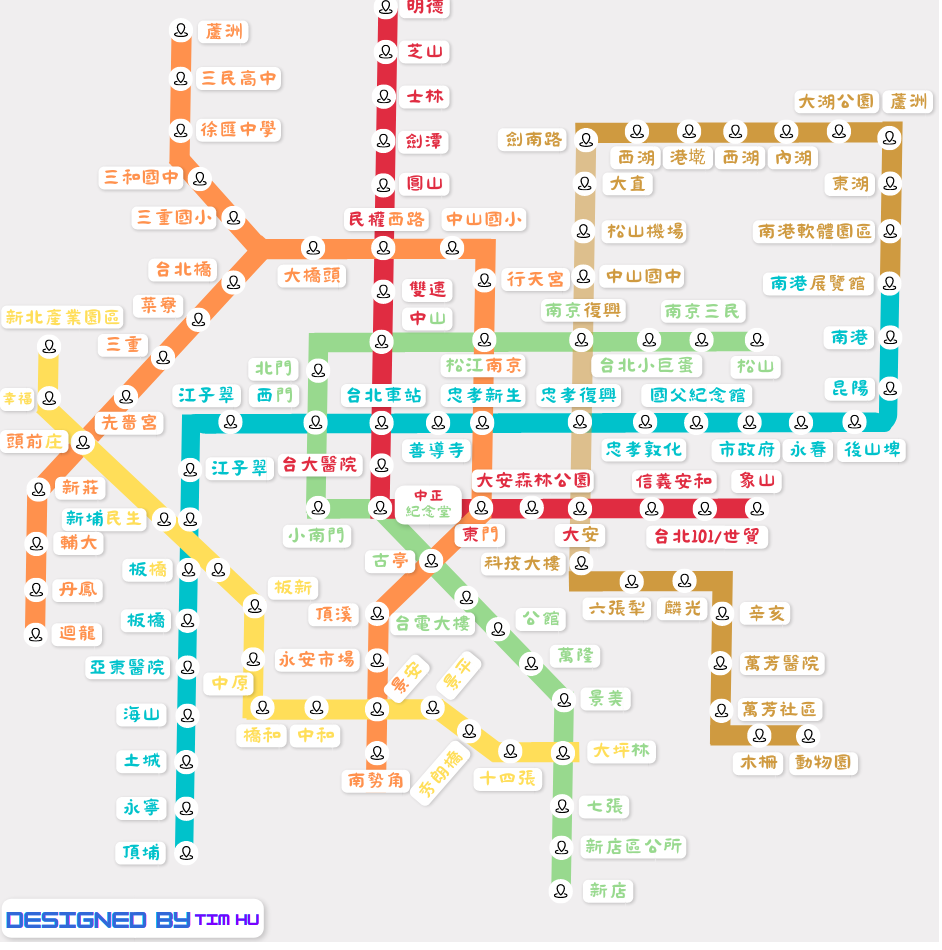
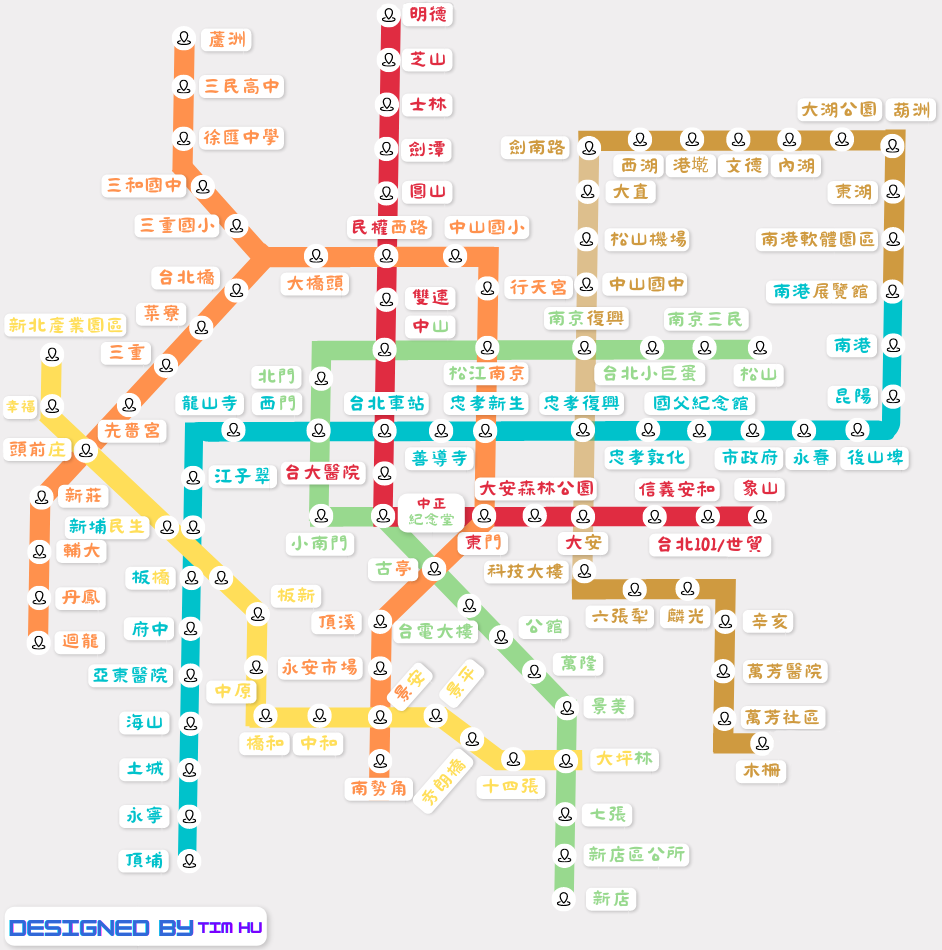
題目+卡片
1.題目出錯的修正
2.提示中圖片的顯示
3.重複站點icon的選擇
4.修正舊有座標
5.卡片換新

Changed region(s): [[0.0, 0.0, 1.0, 0.9768], [0.0, 0.9463, 0.3079, 1.0]]

diff --git a/main/templates/eachstation.html b/main/templates/eachstation.html
@@ -6,38 +6,38 @@
             <div class="mt-2 d-flex shadow" style="background-color: white;height:65%;border-radius:40px 40px 0 0">
                 <div class="col-4 d-flex mt-4 ms-4">
                     <img {% if station in
-                        ["南港展覽館","南港","昆陽","後山埤","永春","市政府","國父紀念館","忠孝敦化","善導寺","龍山寺","江子翠","新埔(民生)","板橋","府中","亞東醫院","海山","土城","永寧","頂埔"]
+                        ["南港","昆陽","後山埤","永春","市政府","國父紀念館","忠孝敦化","善導寺","龍山寺","江子翠","新埔(民生)","板橋","府中","亞東醫院","海山","土城","永寧","頂埔"]
                         %} src="/static/img/blue.png" alt="" style="height:100px;border-radius:20px" id="icon"
                         class='shadow'>
                     <div style="height:30px;width:30px;border-radius:25%;background-color:#e7e7e7;color:#006fba;text-align:center;padding-top:5px;margin-top:80px;margin-left:-15px;font-weight:900"
                         class="shadow">藍</div>
                     {% elif station in
-                    ["明德","芝山","士林","劍潭","圓山","民權西路","雙連","中山","臺北車站","台大醫院","中正紀念堂","東門","大安森林公園","大安","信義安和","台北101／世貿","象山"]%}
+                    ["明德","芝山","士林","劍潭","圓山","雙連","台北車站","台大醫院","東門","大安森林公園","信義安和","台北101/世貿","象山"]%}
                     src="/static/img/red.png"
                     alt="" style="height:100px;border-radius:20px" id="icon" class='shadow'>
                     <div style="height:30px;width:30px;border-radius:25%;background-color:#e7e7e7;color:rgb(209,45,50);text-align:center;padding-top:5px;margin-top:80px;margin-left:-15px;font-weight:900"
                         class="shadow">紅</div>
                     {% elif station in
-                    ["松山","南京三民","台北小巨蛋","南京復興","松江南京","中山","北門","西門","小南門","中正紀念堂","古亭","台電大樓","公館","萬隆","景美","大坪林","七張","新店區公所","新店","小碧潭"]
+                    ["松山","南京三民","台北小巨蛋","南京復興","中山","北門","西門","小南門","中正紀念堂","台電大樓","公館","萬隆","景美","大坪林","七張","新店區公所","新店","小碧潭"]
                     %}
                     src="/static/img/green.png"
                     alt="" style="height:100px;border-radius:20px" id="icon" class='shadow'>
                     <div style="height:30px;width:30px;border-radius:25%;background-color:#e7e7e7;color:rgb(59,133,92);text-align:center;padding-top:5px;margin-top:80px;margin-left:-15px;font-weight:900"
                         class="shadow">綠</div>
-                    {% elif station in ["大坪林","十四張","秀朗橋","景平","景安","中和","橋和","中原","板新","板橋","新埔民生","頭前庄","幸福","新北產業園區"]
+                    {% elif station in ["大坪林","十四張","秀朗橋","景平","景安","中和","橋和","中原","板新","板橋","新埔民生","幸福","新北產業園區"]
                     %}
                     src="/static/img/yellow.png"
                     alt="" style="height:100px;border-radius:20px" id="icon" class='shadow'>
                     <div style="height:30px;width:30px;border-radius:25%;background-color:#e7e7e7;color:rgb(249,221,74);text-align:center;padding-top:5px;margin-top:80px;margin-left:-15px;font-weight:900"
                         class="shadow">黃</div>
                     {% elif station in
-                    ["動物園","木柵","萬芳社區","萬芳醫院","辛亥","麟光","六張犁站","科技大樓","大安","忠孝復興","南京復興","中山國中","松山機場","大直","劍南路","西湖","港墘","文德","內湖","大湖公園","葫洲","東湖站","南港軟體園區","南港展覽館"]%}
+                    ["動物園","木柵","萬芳社區","萬芳醫院","辛亥","麟光","六張犁","科技大樓","大安","忠孝復興","南京復興","中山國中","松山機場","大直","劍南路","西湖","港墘","文德","內湖","大湖公園","葫洲","東湖","南港軟體園區","南港展覽館"]%}
                     src="/static/img/brown.png"
                     alt="" style="height:100px;border-radius:20px" id="icon" class='shadow'>
                     <div style="height:30px;width:30px;border-radius:25%;background-color:#e7e7e7;color:rgb(186,142,64);text-align:center;padding-top:5px;margin-top:80px;margin-left:-15px;font-weight:900"
                         class="shadow">棕</div>
                     {% elif station in
-                    ["蘆洲","三民高中","徐匯中學","三和國中","三重國小","迴龍","丹鳳","輔大","新莊","頭前庄","先嗇宮","三重","菜寮","台北橋","大橋頭","民權西路","中山國小","行天宮","松江南京","忠孝新生","東門","古亭","頂溪","永安市場","景安","南勢角"]
+                    ["蘆洲","三民高中","徐匯中學","三和國中","三重國小","迴龍","頭前庄","丹鳳","輔大","新莊","頭前庄","先嗇宮","三重","菜寮","台北橋","大橋頭","民權西路","中山國小","行天宮","松江南京","忠孝新生","東門","古亭","頂溪","永安市場","景安","南勢角"]
                     %}
                     src="/static/img/orange.png"
                     alt="" style="height:100px;border-radius:20px" id="icon" class='shadow'>
@@ -105,6 +105,13 @@
             <div class="col small-card p-3 shadow" style="color:#929292;background-color:white">
                 {% for task in settings[station] %}
                 {{task[2]}}
+                {% if ',' in task[4] %}
+                    {% for each in task[4].split(',') %}
+                        <img src="{{each}}" class="mw-100"  alt="">
+                    {%endfor%}
+                {%else%}
+                <img src="{{task[4]}}" class="mw-100" alt="">
+                {%endif%}
                 {%endfor%}
             </div>
         </div>

diff --git a/main/templates/each_game.html b/main/templates/each_game.html
@@ -74,8 +74,6 @@
                     shape="rect"><!---->
                 <area title="景美" href="/games/{{session['games']['name']}}?station=景美" coords="554,698,572,719"
                     shape="rect"><!---->
-                <area title="大坪林" href="/games/{{session['games']['name']}}?station=大坪林" coords="547,1071,640,1106"
-                    shape="rect">
                 <area title="七張" href="/games/{{session['games']['name']}}?station=七張" coords="555,802,572,824"
                     shape="rect"><!---->
                 <area title="新店區公所" href="/games/{{session['games']['name']}}?station=新店區公所" coords="554,843,573,866"

diff --git a/main/templates/cards.html b/main/templates/cards.html
@@ -54,7 +54,7 @@
         return Math.floor(Math.random() * max);
     }
     function get_card() {
-        location.href = '/games/{{session['games']['name']}}/cards?get=' + (getRandomInt(19) + 1);
+        location.href = '/games/{{session['games']['name']}}/cards?get=' + (getRandomInt(26) + 1);
     }
     function add_card(id){
         let card_box=document.querySelector('#card_box');

diff --git a/1.html b/1.html
@@ -1,0 +1,12 @@
+<!DOCTYPE html>
+<html lang="en">
+<head>
+    <meta charset="UTF-8">
+    <meta http-equiv="X-UA-Compatible" content="IE=edge">
+    <meta name="viewport" content="width=device-width, initial-scale=1.0">
+    <title>Document</title>
+</head>
+<body>
+    <img src="https://i.imgur.com/QOlyUlc.jpg" alt="">
+</body>
+</html>

diff --git a/main/model.py b/main/model.py
@@ -13,7 +13,7 @@ class DB():
         '''this function is used to load the global settings data from mongodb'''
         map=self.settings.find_one({'type':'settings'})
         collapse=self.settings.find_one({'type':'collapse'})
-        settings={'map':map,'collapse':collapse}
+        settings={'settings':map,'collapse':collapse}
         if keyword:
             settings=settings[keyword]
         return settings
@@ -127,16 +127,16 @@ class DB():
     
     def upload_tasks(self):
         '''this function is to upload the tasks.json from local file system to mongodb settings collection'''
-        result=self.load_settings()
+        result=self.load_settings("settings")
         if result:
-            with open('tasks.json',"r") as f1:
+            with open('newtask.json',"r") as f1:
                 data=json.load(f1)
             result.update(data)
             print(result)
             self.settings.update_one({'type':'settings'},{"$set":result})
         else:
             result={"type":'settings'}
-            with open('tasks.json',"r") as f1:
+            with open('newtask.json',"r") as f1:
                 data=json.load(f1)
             result.update(data)
             print(result)

diff --git a/test/app.py b/test/app.py
@@ -14,7 +14,7 @@ class Config(object):
     
 @scheduler.task('cron', id='崩塌開始', day='*', hour='11', minute='23', second='20')
 def job3():
-    @scheduler.task('interval', id='do_job_4', seconds=2)
+    @scheduler.task('interval', id='do_job_4', seconds=300)
     def job4():
         print(str(datetime.datetime.now()) + ' fuck')
         print(scheduler.get_jobs())

diff --git a/main/routes.py b/main/routes.py
@@ -85,7 +85,7 @@ def each_game(name):
     move=request.args.get('move',None)
     station=request.args.get('station',None)
     have=request.args.get('have',None)
-    settings=db_model.load_settings('map')
+    settings=db_model.load_settings('settings')
     # print(settings)
     # print(station)
     # print(session)
